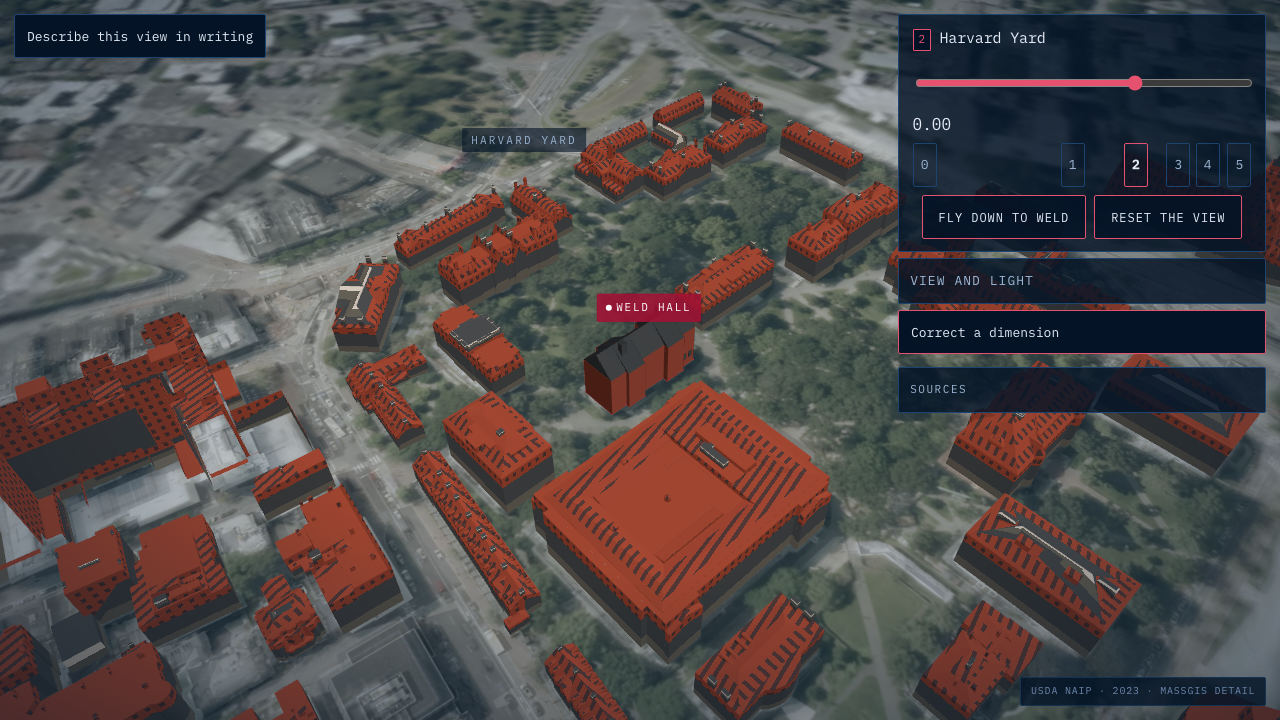
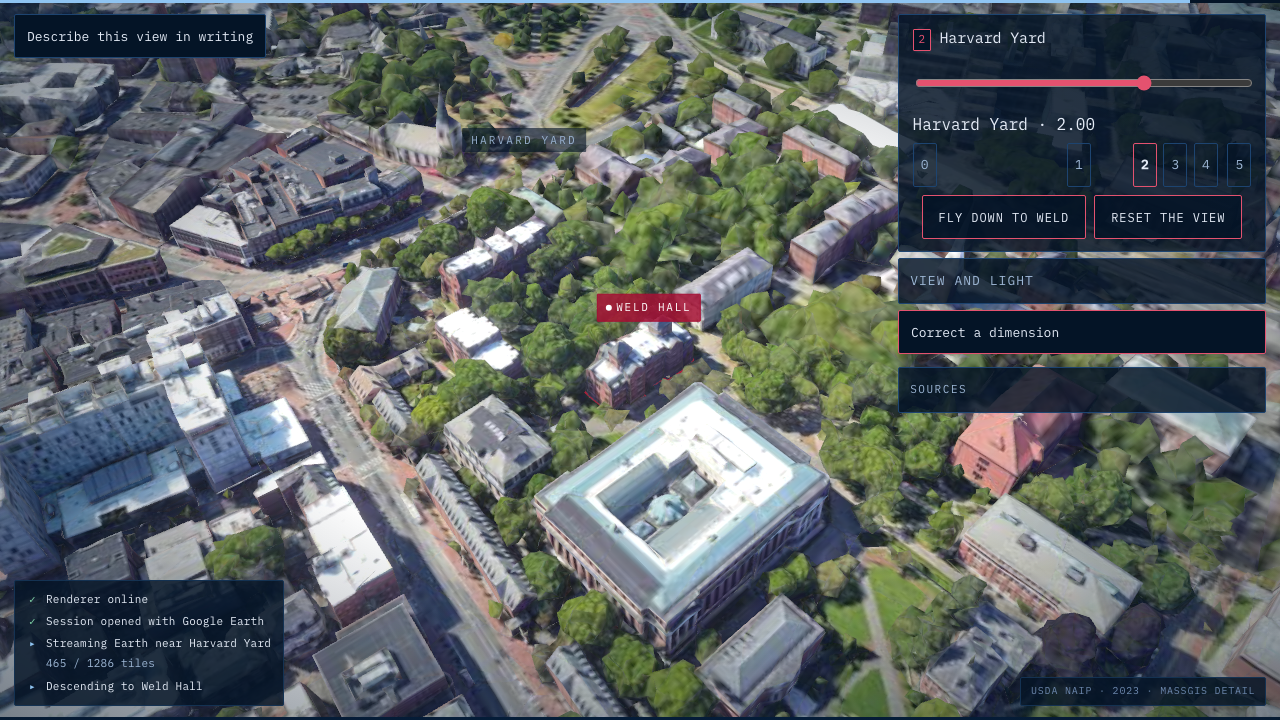
P12: start the threshold above the Yard's trees
Stage 4's stand-off sat at ridge/2, 55 ft above grade -- a height chosen
when the only things in the scene were this project's own massing and a
ground plane. Google's Yard has elms in it, and geo/frame.ts's datum put
them at their real height, so the crossing began inside one: measured
along the approach corridor itself (+/-25 ft either side of the line from
the stand-off to Weld's centre, 1,628 tiles settled), canopy tops run 50.8
to 59.9 ft over the first 39% of the run in, and the frame was half
leaves.

The stand-off is now ridge * 0.8 -- 80.6 ft above grade, clear of the
worst canopy by 20 ft and still under the 85.4 ft ridge, so the approach
looks slightly up at the roofline rather than down onto it. The aim rises
with it, ridge/4 to ridge/2: lifting only the camera would have pitched
the shot 21 degrees down and pushed the ridge off the top edge. Weld's own
mesh tops out at 81.2 ft in the same measurement.

vitest 1037/1037. journey.spec's reduced-motion case now asserts the
camera is at the destination at 250 ms and that the frame fills in, rather
than reading pixels at 250 ms: with the shell retired the world streams,
and the old proxy measured the network instead of the cut.

diff --git a/src/scene/stages.ts b/src/scene/stages.ts
@@ -403,18 +403,38 @@ function buildKeyframes(params: SuiteParams): Record<StageId, Keyframe> {
   // height plus headroom, divided by the tangent of the half fov. Written as a
   // function of GABLE_FOV so the two cannot drift apart, which is how the 40
   // survived a change of fov in the first place.
+  //
+  // ABOVE THE TREES SINCE P12, WHICH IS A FACT ABOUT CAMBRIDGE AND NOT A FRAMING TASTE.
+  // The height was ridge/2, i.e. 55 ft above grade, chosen when the only things in the
+  // scene were this project's own massing and a ground plane. Google's photogrammetry has
+  // the Yard's elms in it, and geo/frame.ts's datum put them at their real height:
+  // measured along this exact approach corridor (scripts/_probe-approach, +/-25 ft either
+  // side of the line from the stand-off to Weld's centre, 1,628 tiles settled), canopy tops
+  // run 50.8 to 59.9 ft over the first 39% of the run in. A camera at 55 ft starts the
+  // threshold INSIDE a tree -- screenshotted, half the frame is leaves.
+  //
+  // 0.8 * ridge is 68.3 ft above the first floor, 80.6 ft above grade: clear of the 59.9 ft
+  // worst canopy by 20 ft, and still under the 85.4 ft ridge so the approach looks slightly
+  // UP at the roofline rather than down onto it. Weld's own mesh tops out at 81.2 ft in the
+  // same measurement, which is the same number from the other direction.
   const gableOutside = suiteToThree(
     bedB.u + bedB.du / 2,
     params.sectionLength + GABLE_BACK,
-    floor + WELD.ridge / 2,
+    floor + WELD.ridge * 0.8,
     params,
   );
   // Into bedroom B, but aimed high enough that the approach looks at the building
   // and not at the ground in front of it. The blend to stage 5 brings the eye down.
+  //
+  // RAISED WITH THE STAND-OFF, ridge/4 to ridge/2, and it has to move with it: the aim sets
+  // where the frame is centred, and lifting only the camera would have pitched the shot 21
+  // degrees down and pushed the ridge off the top edge. At these two heights the view runs
+  // 11.7 degrees below horizontal, so the 50 degree fov holds the gable from +2 degrees at
+  // the ridge to -33 at the ground line, inside a frame spanning +13.3 to -36.7.
   const insideBedB = suiteToThree(
     bedB.u + bedB.du / 2,
     bedB.v + bedB.dv - 4,
-    floor + WELD.ridge / 4,
+    floor + WELD.ridge / 2,
     params,
   );
   // STAGE 5 STANDS IN THE HALL, WHICH IS THE DEBT P7 PAYS BACK.

diff --git a/docs/phases/P12-DATUM.md b/docs/phases/P12-DATUM.md
@@ -73,6 +73,18 @@ Widener's roof once the tiles were at their real height, and the stage-3 frame b
 skylight (screenshotted). It is now `obliqueDrop(270, 45, 45)` at azimuth 38.3: 205 ft up,
 range 230 ft, inside `STAGE3_CLAMP`'s 115–345 ft and 2–75°.
 
+**Stage 4's stand-off had to rise, for the same class of reason.** The threshold begins 124 ft
+outside bedroom B's gable at a height of `ridge / 2` — 55 ft above grade, chosen when the only
+things in the scene were this project's own massing and a ground plane. Google's Yard has elms
+in it. Measured along the approach corridor itself (±25 ft either side of the line from the
+stand-off to Weld's centre, 1,628 tiles settled): canopy tops run **50.8 to 59.9 ft over the
+first 39%** of the run in, so the camera began the crossing inside a tree — screenshotted, half
+the frame was leaves. The stand-off is now `ridge * 0.8`, i.e. 80.6 ft above grade: clear of the
+worst canopy by 20 ft and still under the 85.4 ft ridge, so the approach looks slightly UP at
+the roofline. The aim rose with it, `ridge / 4` to `ridge / 2` — lifting only the camera would
+have pitched the shot 21° down and pushed the ridge off the top edge. Weld's own mesh tops out
+at 81.2 ft in the same measurement, which is the same number from the other direction.
+
 ---
 
 ## 2. The measurement
